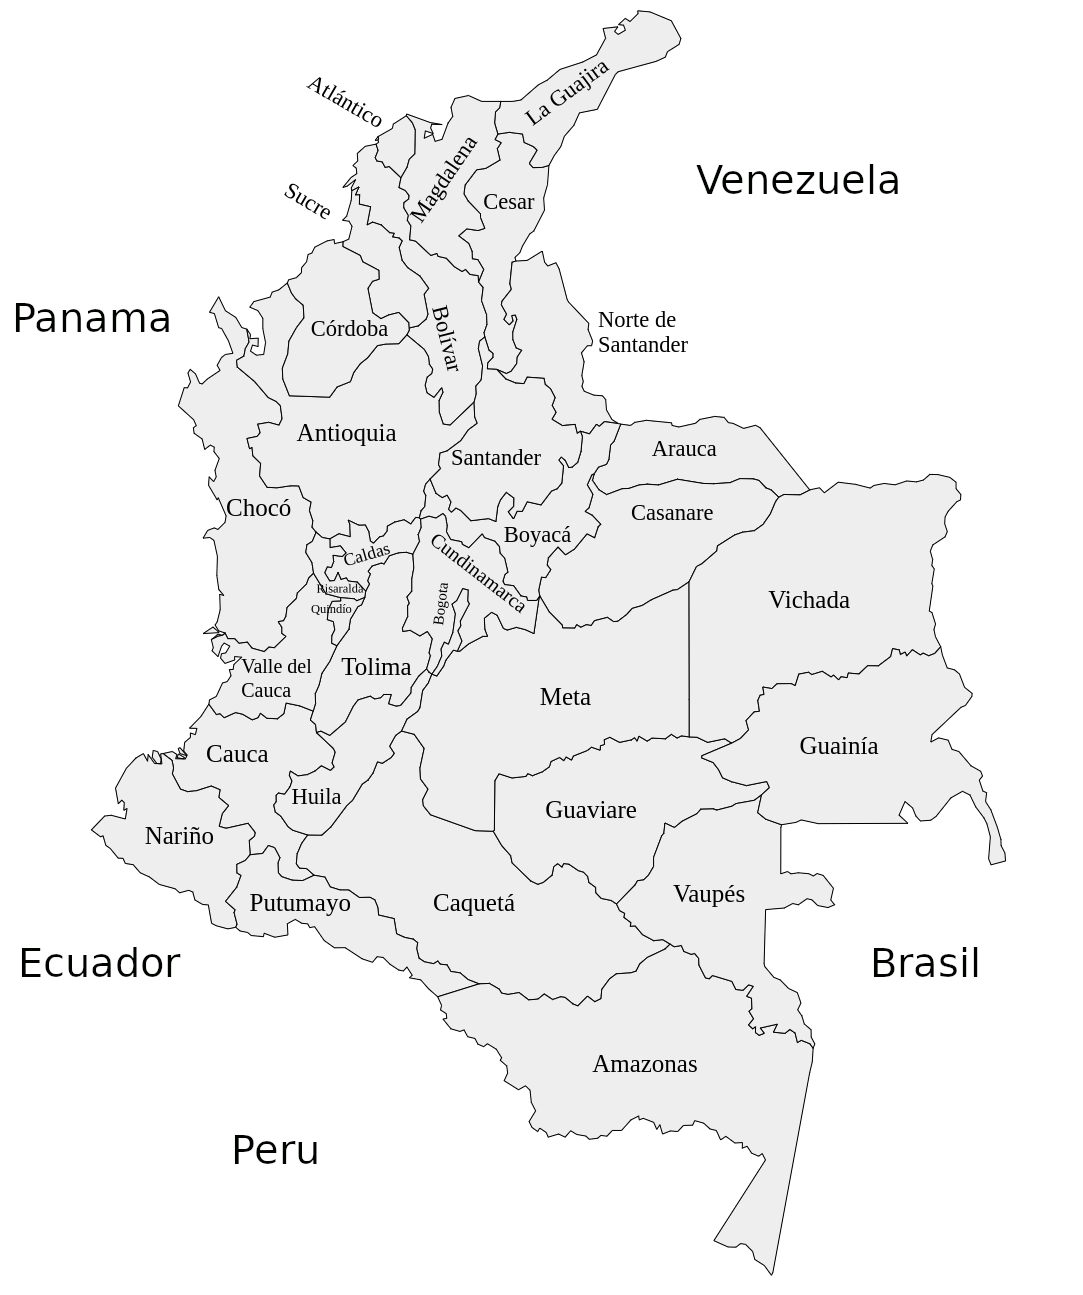
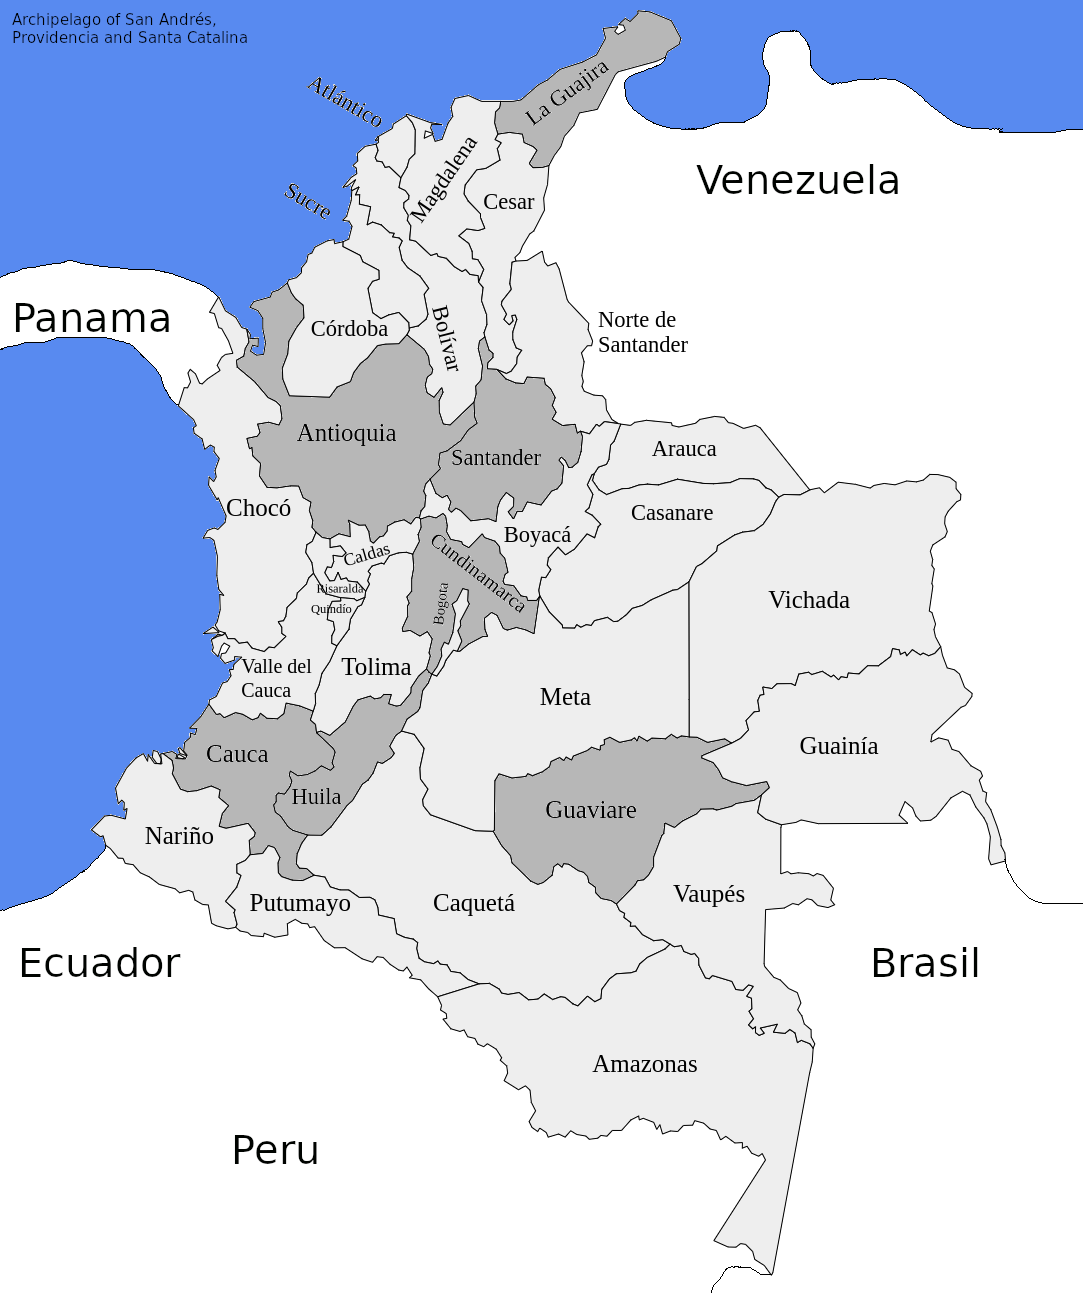
Colombia

Changed region(s): [[0.0, 0.0, 1.0, 0.7104], [0.4571, 0.556, 0.7008, 0.7104]]

diff --git a/english/co/Maps/index.html b/english/co/Maps/index.html
@@ -51,6 +51,14 @@
 
         <div class="center">
             <map name="ColombiaMap">
+                <area shape="poly" coords="641,12,502,104,499,134,519,134,538,152,531,167,548,167,579,115,601,106,616,72,663,58,682,40,669,17,640,10" alt="La Guajira Department" target="_top" href="../../co/region/LaGuajira.html" />
+                <area shape="rect" coords="283,395,430,482" alt="Antioquia Department" target="_top" href="../../co/region/Antioquia.html" />
+                <area shape="rect" coords="450,449,557,474" alt="Santander Department" target="_top" href="../../co/region/Santander.html" />
+                <area shape="poly" coords="421,518,445,515,446,535,466,547,481,534,498,543,510,572,503,583,540,601,534,634,517,627,506,630,493,612,485,619,489,634,458,653,462,640,458,630,460,625,463,620,469,604,469,590,464,589,451,605,457,618,449,643,443,642,441,651,433,674,428,668,431,638,425,630,418,637,400,630,409,618,419,520" alt="Cundinamarca Department" target="_top" href="../../co/region/Cundinamarca.html" />
+                <area shape="rect" coords="198,729,288,783" alt="Cauca Department" target="_top" href="../../co/region/Cauca.html" />
+                <area shape="rect" coords="287,782,347,810" alt="Huila Department" target="_top" href="../../co/region/Huila.html" />
+                <area shape="rect" coords="500,782,658,847" alt="Guaviare Department" target="_top" href="../../co/region/Guaviare.html" />
+                <area shape="rect" coords="6,4,267,56" alt="Archipelago of San Andrés, Providencia and Santa Catalina" target="_top" href="../../co/region/SanAndres.html" />
                 <area shape="rect" coords="687,154,910,206" alt="Venezuela" target="_top" href="../../other/region/veMap.html"/>
                 <area shape="rect" coords="4,291,179,341" alt="Panama" target="_top" href="../../other/region/paMap.html"/>
                 <area shape="rect" coords="864,939,988,986" alt="Brazil" target="_top" href="../../br/Maps/index.html"/>
